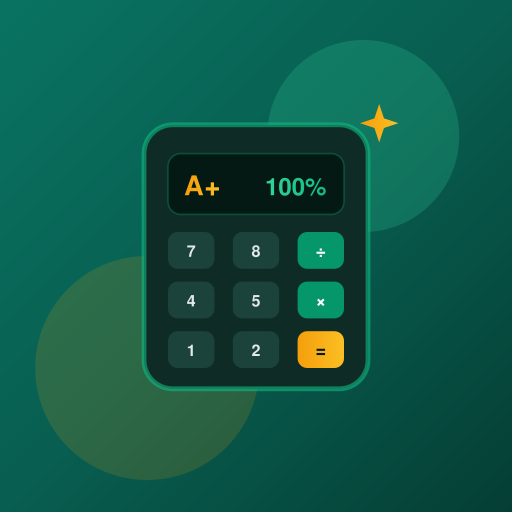
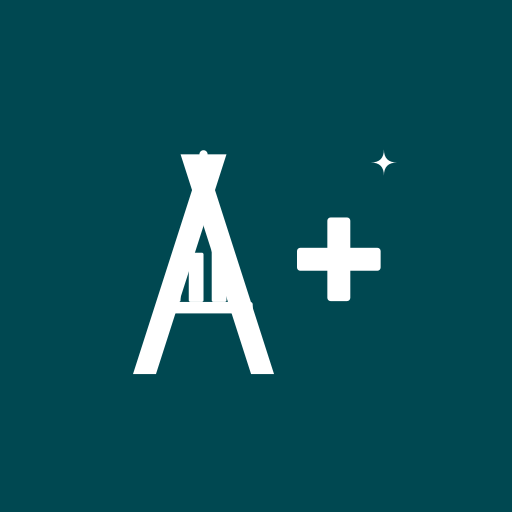
chore: update application assets
Remove outdated icons and branding assets to refresh project resources.

diff --git a/src/components/Logo.tsx b/src/components/Logo.tsx
@@ -1,0 +1,90 @@
+import React from 'react';
+
+interface LogoProps {
+  className?: string;
+  iconOnly?: boolean;
+  size?: 'sm' | 'md' | 'lg';
+}
+
+/**
+ * Official Easy Grade Tool Logo Component.
+ * Features:
+ * - Geometric squircle icon in dark teal (#004851)
+ * - White "A+" insignia with ascending 3-bar histogram crossbar
+ * - Upper-right 4-point sparkle accent
+ * - Bold wordmark "Easy Grade Tool"
+ */
+export const Logo: React.FC<LogoProps> = ({
+  className = '',
+  iconOnly = false,
+  size = 'md',
+}) => {
+  const iconDimensions = {
+    sm: { box: 28, radius: 7 },
+    md: { box: 34, radius: 8.5 },
+    lg: { box: 44, radius: 11 },
+  }[size];
+
+  const textClasses = {
+    sm: 'text-base',
+    md: 'text-lg sm:text-xl',
+    lg: 'text-2xl',
+  }[size];
+
+  return (
+    <div className={`inline-flex items-center gap-2.5 select-none ${className}`}>
+      {/* Brand Icon Squircle */}
+      <svg
+        width={iconDimensions.box}
+        height={iconDimensions.box}
+        viewBox="0 0 512 512"
+        fill="none"
+        xmlns="http://www.w3.org/2000/svg"
+        className="shrink-0 transition-transform duration-200 group-hover:scale-105 shadow-xs rounded-[22%]"
+        aria-hidden="true"
+      >
+        {/* Dark Teal Squircle Base */}
+        <rect width="512" height="512" rx="118" fill="#004851" />
+
+        {/* Crisp White A+ with 3-bar Chart Crossbar */}
+        <g fill="#FFFFFF">
+          {/* Left Leg of A */}
+          <polygon points="106,400 134,400 220,132 192,132" />
+          {/* Right Leg of A */}
+          <polygon points="278,400 250,400 164,132 192,132" />
+          {/* Apex Cap */}
+          <circle cx="192" cy="132" r="5" />
+
+          {/* Chart Base Bar inside A */}
+          <rect x="134" y="312" width="118" height="14" rx="3" />
+
+          {/* 3 Ascending Bar Chart Columns */}
+          {/* Short Bar */}
+          <rect x="146" y="280" width="18" height="32" rx="2" />
+          {/* Medium Bar */}
+          <rect x="174" y="252" width="18" height="60" rx="2" />
+          {/* Tall Bar */}
+          <rect x="202" y="222" width="18" height="90" rx="2" />
+
+          {/* Plus Sign */}
+          <rect x="306" y="246" width="102" height="28" rx="4" />
+          <rect x="343" y="209" width="28" height="102" rx="4" />
+
+          {/* 4-point Sparkle Star */}
+          <path d="M 412,126 Q 412,142 428,142 Q 412,142 412,158 Q 412,142 396,142 Q 412,142 412,126 Z" />
+        </g>
+      </svg>
+
+      {/* Brand Wordmark */}
+      {!iconOnly && (
+        <span
+          className={`font-extrabold tracking-tight text-[#004851] dark:text-white transition-colors leading-none ${textClasses}`}
+        >
+          Easy Grade Tool
+        </span>
+      )}
+    </div>
+  );
+};
+
+export default Logo;

diff --git a/src/components/Footer.tsx b/src/components/Footer.tsx
@@ -37,6 +37,7 @@ import { TOOLS_LIST, getToolKeyFromPath, CONTACT_EMAIL } from '../data/constants
 import { ToolKey } from '../types';
 import { preloadTool } from '../utils/toolPreloader';
 import { SITE_URL } from '../data/seoConfig';
+import { Logo } from './Logo';
 
 export interface FooterProps {
   activeTool?: ToolKey;
@@ -793,14 +794,9 @@ export const Footer: React.FC<FooterProps> = ({
                   if (onSelectTool) onSelectTool('quick');
                 }}
                 className="group flex items-center gap-3 text-left cursor-pointer transition-transform active:scale-95 focus:outline-none"
-                title="Go to Easy Grade Calculator Home"
+                title="Go to Easy Grade Tool Home"
               >
-                <span className="w-9 h-9 rounded-full bg-[#191C1E] dark:bg-teal-600 flex items-center justify-center text-white shadow-xs group-hover:scale-105 transition-transform">
-                  <Sparkles className="w-4 h-4" aria-hidden="true" />
-                </span>
-                <span className="font-extrabold text-base tracking-tight text-slate-900 dark:text-white group-hover:text-teal-700 dark:group-hover:text-teal-400 transition-colors">
-                  Easy Grade Calculator
-                </span>
+                <Logo size="md" />
               </Link>
 
               <p className="text-xs sm:text-sm text-slate-600 dark:text-slate-400 leading-relaxed max-w-sm">

diff --git a/src/components/Navbar.tsx b/src/components/Navbar.tsx
@@ -1,11 +1,12 @@
 import React, { useMemo, useEffect, useRef } from 'react';
 import { Link, useLocation } from 'react-router-dom';
-import { Sparkles, Sun, Moon, Laptop, Search } from 'lucide-react';
+import { Sun, Moon, Laptop, Search } from 'lucide-react';
 import { TOOLS_LIST } from '../data/constants';
 import { ToolKey } from '../types';
 import { useTheme } from '../context/ThemeContext';
 import { PWAInstallButton } from './PWAInstallButton';
 import { preloadTool } from '../utils/toolPreloader';
+import { Logo } from './Logo';
 
 interface NavbarProps {
   activeTool: ToolKey;
@@ -101,12 +102,9 @@ export const Navbar: React.FC<NavbarProps> = ({
           onMouseEnter={() => preloadTool('quick')}
           onPointerDown={() => preloadTool('quick')}
           onTouchStart={() => preloadTool('quick')}
-          aria-label="Go to Easy Grade Calculator Home"
+          aria-label="Easy Grade Tool Home"
         >
-          <span className="brand-mark">
-            <Sparkles aria-hidden="true" />
-          </span>
-          <span className="brand-name font-bold tracking-tight">Easy Grade</span>
+          <Logo />
         </Link>
 
         <div className="topbar-right">

diff --git a/src/components/CommandPalette.tsx b/src/components/CommandPalette.tsx
@@ -19,6 +19,7 @@ import {
 import { ToolKey } from '../types';
 import { useTheme } from '../context/ThemeContext';
 import { preloadTool } from '../utils/toolPreloader';
+import { Logo } from './Logo';
 
 export interface CommandPaletteProps {
   isOpen: boolean;
@@ -649,8 +650,8 @@ export const CommandPalette: React.FC<CommandPaletteProps> = ({
           </div>
 
           <div className="command-palette-footer-brand">
-            <Sparkles aria-hidden="true" />
-            <span>Easy Grade Palette ({isMac ? '⌘K' : 'Ctrl+K'})</span>
+            <Logo iconOnly size="sm" />
+            <span>Easy Grade Tool ({isMac ? '⌘K' : 'Ctrl+K'})</span>
           </div>
         </div>
       </div>
